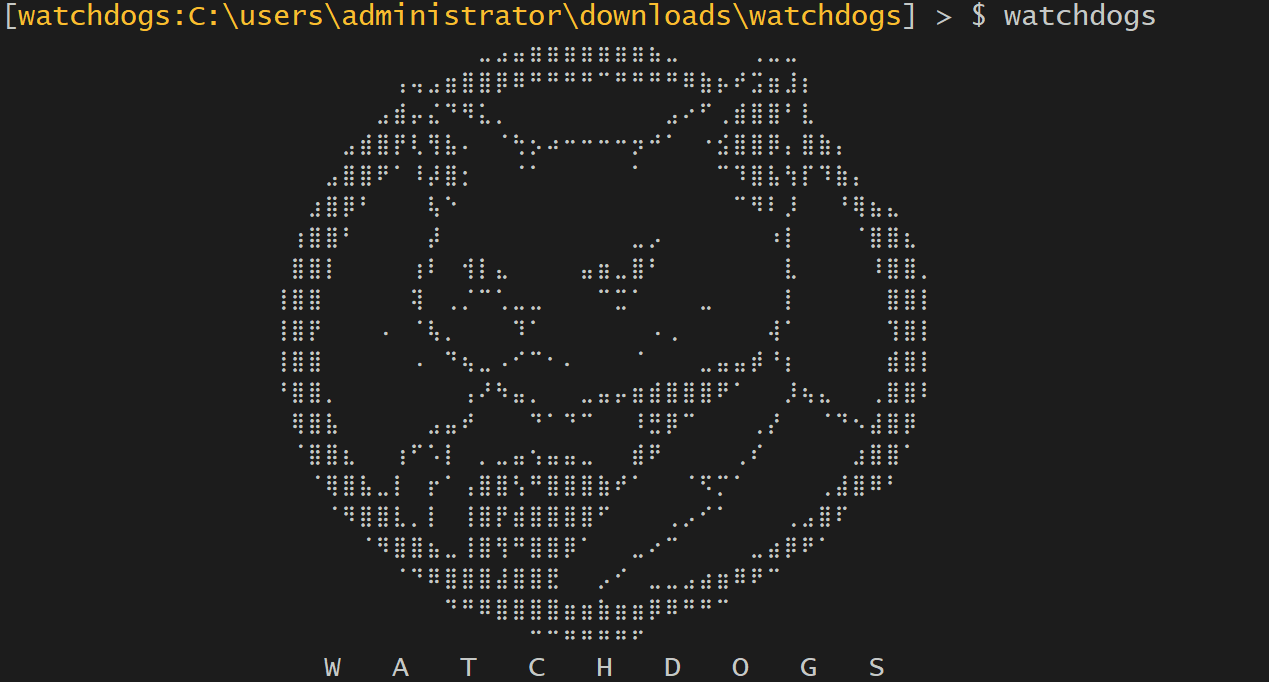
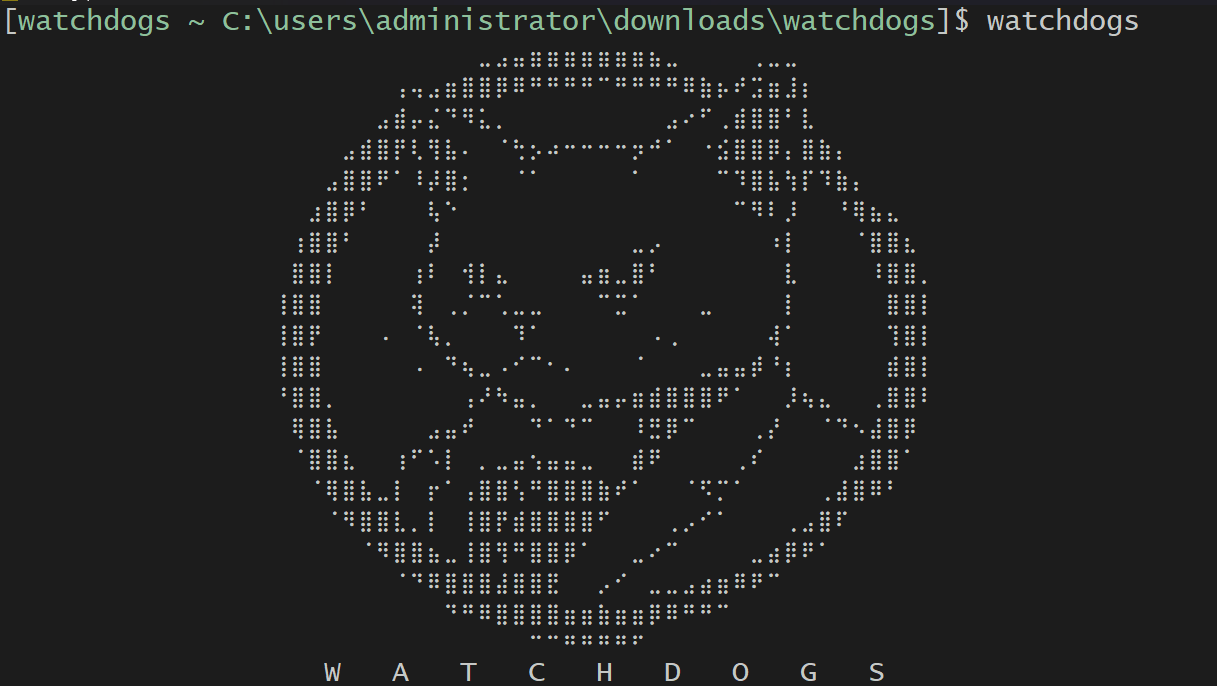
more improved & fixes

diff --git a/chain.c b/chain.c
@@ -108,12 +108,8 @@ int __command__(void)
 _ptr_command:
         char ptr_prompt[PATH_MAX + 56];
         size_t __sz_ptrp = sizeof(ptr_prompt);
-        if (strlen(__cwd) > 100)
-            snprintf(ptr_prompt, __sz_ptrp,
-                     "[" FCOLOUR_YELLOW "watchdogs:%s" FCOLOUR_DEFAULT "]\n\t> $ ", __cwd);
-        else
-            snprintf(ptr_prompt, __sz_ptrp,
-                     "[" FCOLOUR_YELLOW "watchdogs:%s" FCOLOUR_DEFAULT "] > $ ", __cwd);
+        snprintf(ptr_prompt, __sz_ptrp,
+                 "[" FCOLOUR_CYAN "watchdogs ~ %s" FCOLOUR_DEFAULT "]$ ", __cwd);
         char* ptr_command = readline(ptr_prompt);
 
         if (ptr_command == WD_ISNULL || ptr_command[0] == '\0')
@@ -139,8 +135,9 @@ _reexecute_command:
 
             if (strlen(arg) == 0) {
                 println(stdout, "Usage: help | help [<command>]");
+
                 for (size_t i = 0; i < __command_len; i++)
-                    printf(" -> %s\n", __command[i]);
+                    printf(" --|> %s\n", __command[i]);
             } else if (strcmp(arg, "clear") == 0) { println(stdout, "clear: clear screen watchdogs. | Usage: \"clear\"");
             } else if (strcmp(arg, "exit") == 0) { println(stdout, "exit: exit from watchdogs. | Usage: \"exit\"");
             } else if (strcmp(arg, "kill") == 0) { println(stdout, "kill: refresh terminal watchdogs. | Usage: \"kill\"");
@@ -164,18 +161,16 @@ _reexecute_command:
         } else if (strcmp(ptr_command, "clear") == 0) {
             wd_set_title("Watchdogs | @ clear");
             wd_run_command("clear");
+            
             goto _ptr_command;
-
-            goto done;
         } else if (strcmp(ptr_command, "exit") == 0) {
             exit(1);
         } else if (strcmp(ptr_command, "kill") == 0) {
             wd_set_title("Watchdogs | @ kill");
             wd_run_command("clear");
-            sleep(1);
             __function__();
             
-            goto done;
+            goto _ptr_command;
         } else if (strncmp(ptr_command, "title", 5) == 0) {
             char *arg = ptr_command + 6;
             while (*arg == ' ') ++arg;
@@ -841,7 +836,7 @@ loop_main:
             command_dur = (cmd_end.tv_sec - cmd_start.tv_sec) +
                           (cmd_end.tv_nsec - cmd_start.tv_nsec) / 1e9;
             pr_color(stdout,
-                         FCOLOUR_YELLOW,
+                         FCOLOUR_GREEN,
                          " ==> [C]Finished in %.3fs\n",
                          command_dur);
             goto loop_main;

diff --git a/compiler.c b/compiler.c
@@ -359,7 +359,7 @@ int wd_RunCompiler(const char *arg, const char *compile_args)
                     compiler_dur = (end.tv_sec - start.tv_sec)
                                         + (end.tv_nsec - start.tv_nsec) / 1e9;
 
-                    pr_color(stdout, FCOLOUR_YELLOW,
+                    pr_color(stdout, FCOLOUR_GREEN,
                         " ==> [P]Finished in %.3fs (%.0f ms)\n",
                         compiler_dur, compiler_dur * 1000.0);
 #if defined(_DBG_PRINT)
@@ -660,7 +660,7 @@ int wd_RunCompiler(const char *arg, const char *compile_args)
                         compiler_dur = (end.tv_sec - start.tv_sec)
                                             + (end.tv_nsec - start.tv_nsec) / 1e9;
 
-                        pr_color(stdout, FCOLOUR_YELLOW,
+                        pr_color(stdout, FCOLOUR_GREEN,
                             " ==> [P]Finished in %.3fs (%.0f ms)\n",
                             compiler_dur, compiler_dur * 1000.0);
 #if defined(_DBG_PRINT)

diff --git a/depends.c b/depends.c
@@ -579,6 +579,11 @@ void dep_add_ncheck_hash(cJSON *depends, const char *file_path, const char *json
 		int array_size;
 		int j;
 
+		char *pos;
+		while ((pos = strstr(file_path, "include/")) != NULL) {
+			memmove(pos, pos + strlen("include/"), strlen(pos + strlen("include/")) + 1);
+		}
+
 		/* Convert paths to use forward slashes */
 		strncpy(convert_f_path, file_path, sizeof(convert_f_path));
 		convert_f_path[sizeof(convert_f_path) - 1] = '\0';
